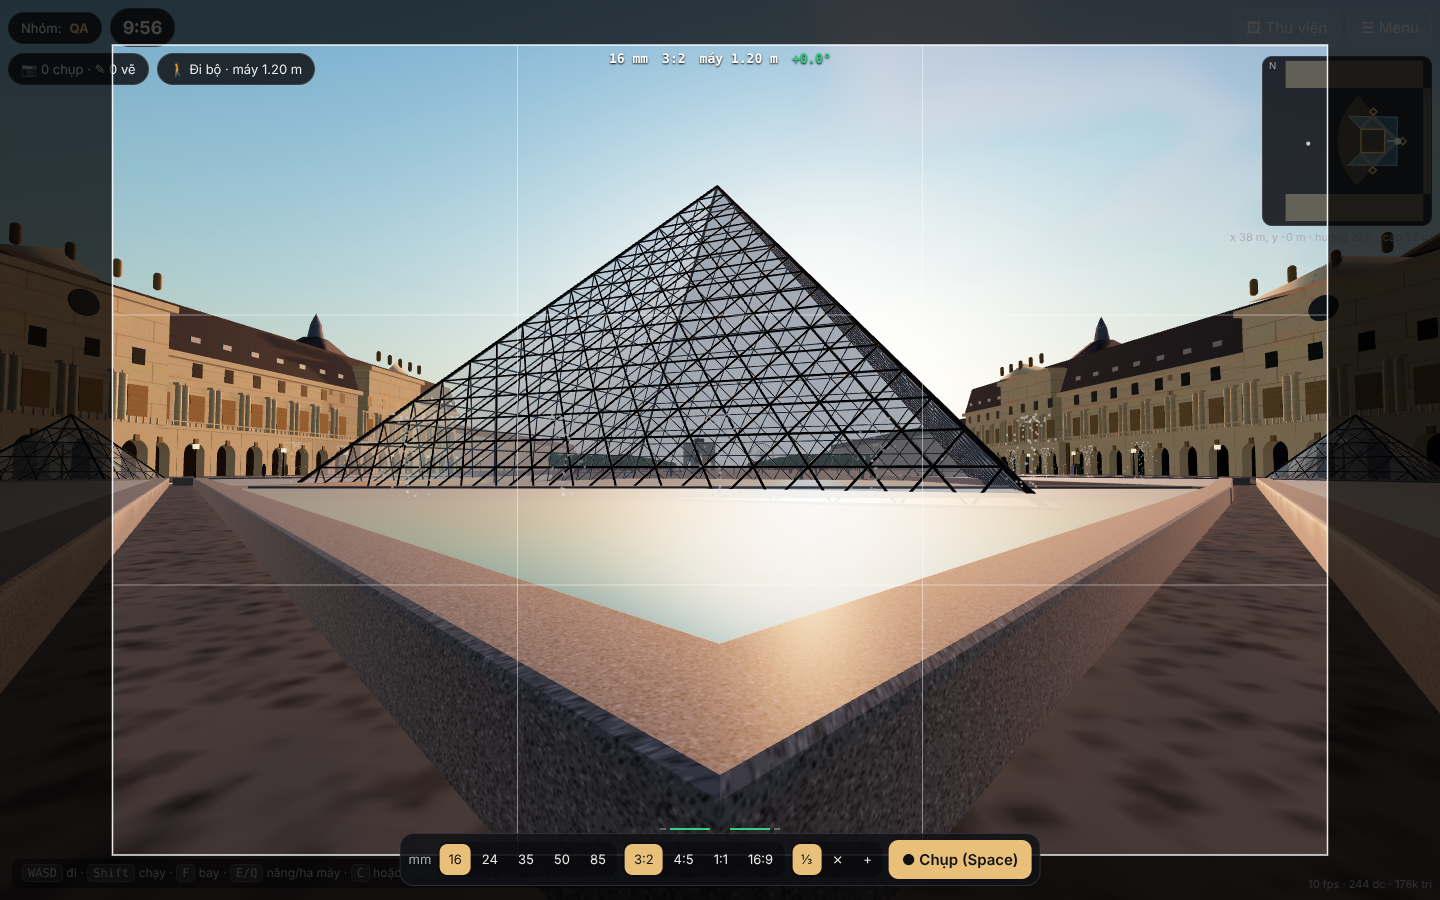
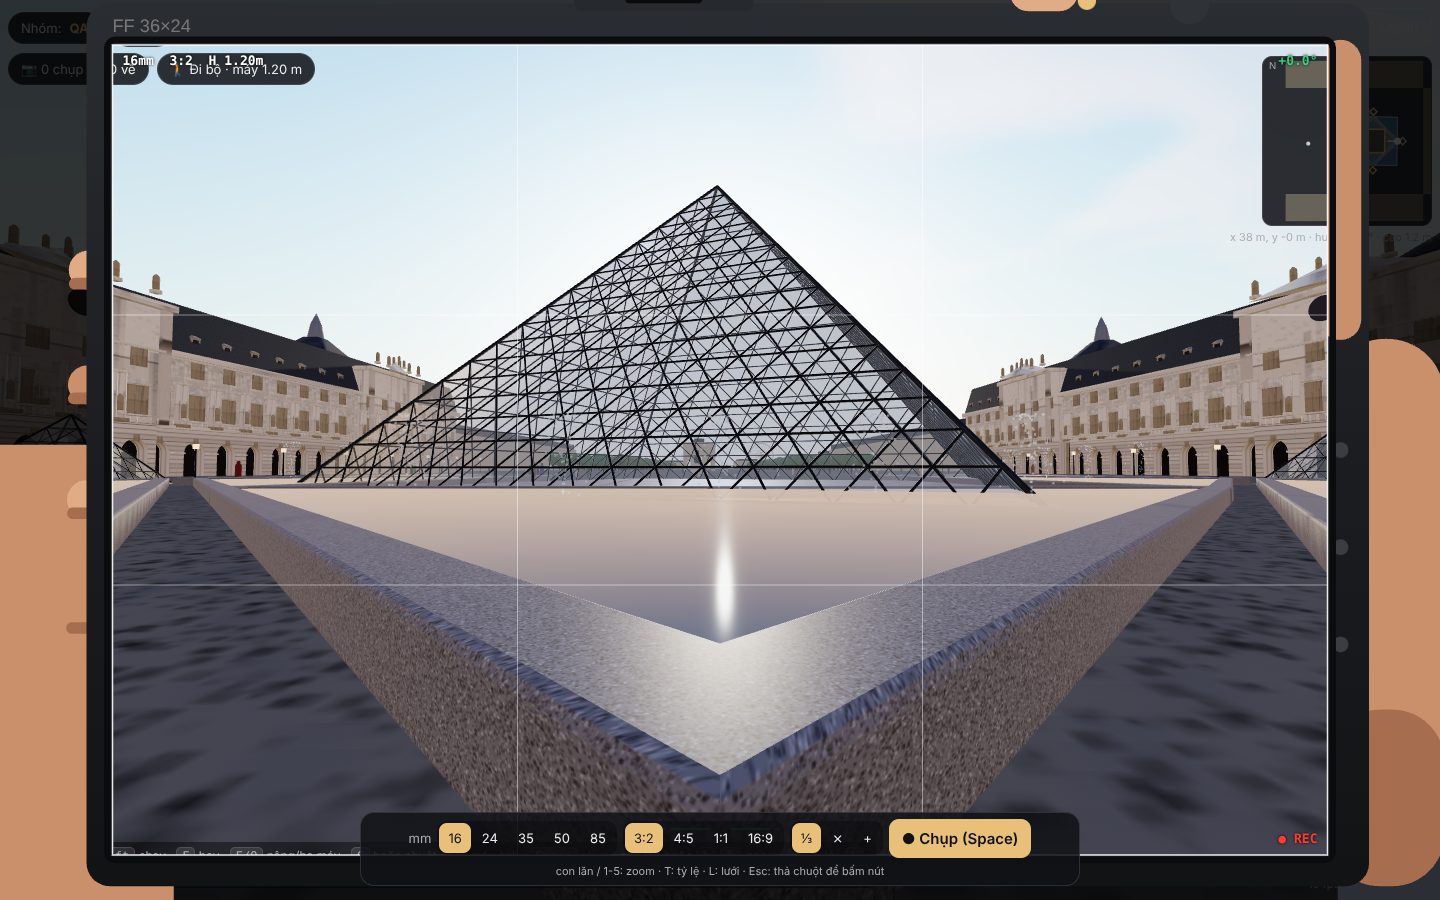
Cập nhật ảnh bằng chứng QA (tay cầm máy, hướng mặt trời lặn), chỉnh env hoàng hôn, sửa selector test
Claude-Session: https://claude.ai/code/session_018m7zeaPxP4EtanWFobMmbW

diff --git a/louvre-va/production/qa/evidence/README.md b/louvre-va/production/qa/evidence/README.md
@@ -4,9 +4,8 @@
 
 - `01-intro.png`: Màn hình vào: tên nhóm, hình mẫu V+A, quy ước
 - `02-spawn-walk.png`: Đi bộ từ điểm xuất phát phía tây, nhìn về kim tự tháp
-- `03-answer-1-camera.png`: Vị trí 1: khung ngắm, V bờ hồ + A kim tự tháp
-- `03-answer-2-camera.png`: Vị trí 2: khung ngắm, V bờ hồ + A kim tự tháp
-- `03-answer-4-camera.png`: Vị trí 4: khung ngắm, V bờ hồ + A kim tự tháp
+- `03b-west-sunset-hands.png`: Nhìn thẳng về mặt trời lặn (hướng tây), tay cầm máy hạ thấp
+- `03c-west-sunset-camera.png`: Cùng góc, máy giơ lên: khung ngắm là màn LCD trong tay
 - `04-flycam-high.png`: Fly cam 35 m: toàn cảnh quảng trường
 - `05-window-richelieu-overcast.png`: Cửa sổ Richelieu, preset trời mưa, nhìn xuống hồ N
 - `06-pool-edge-noon-16mm.png`: Sát mép hồ E, nắng trưa, 16 mm
